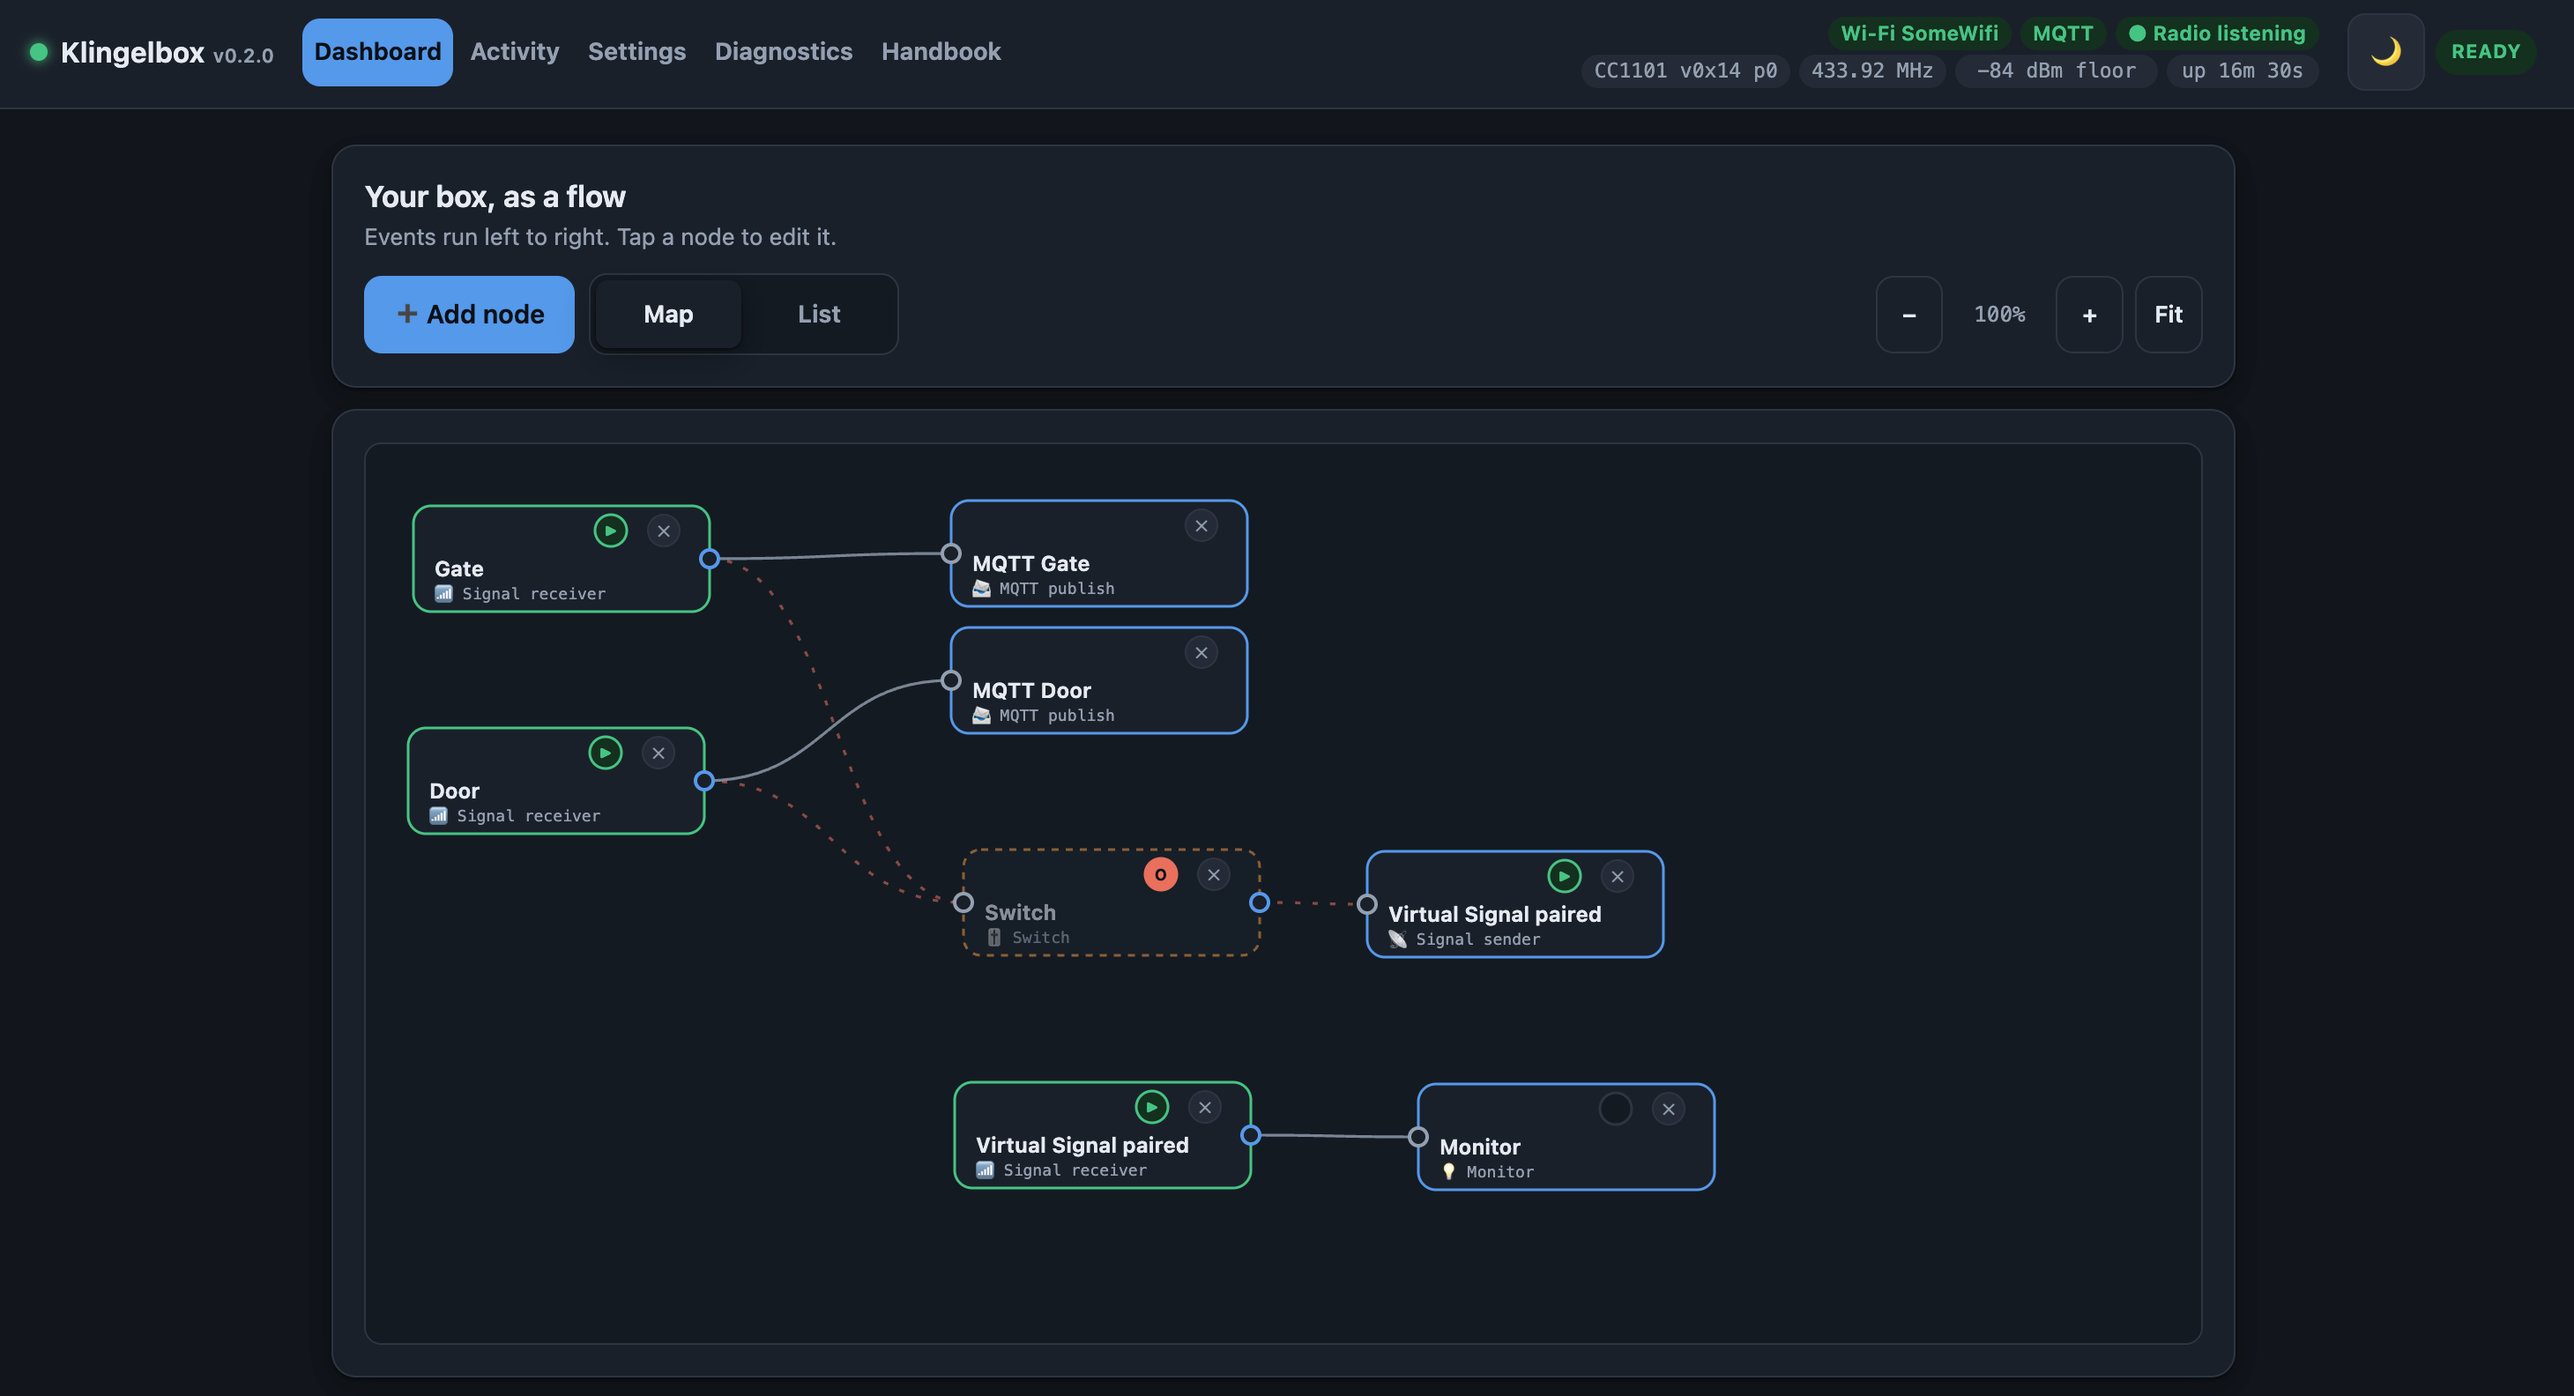
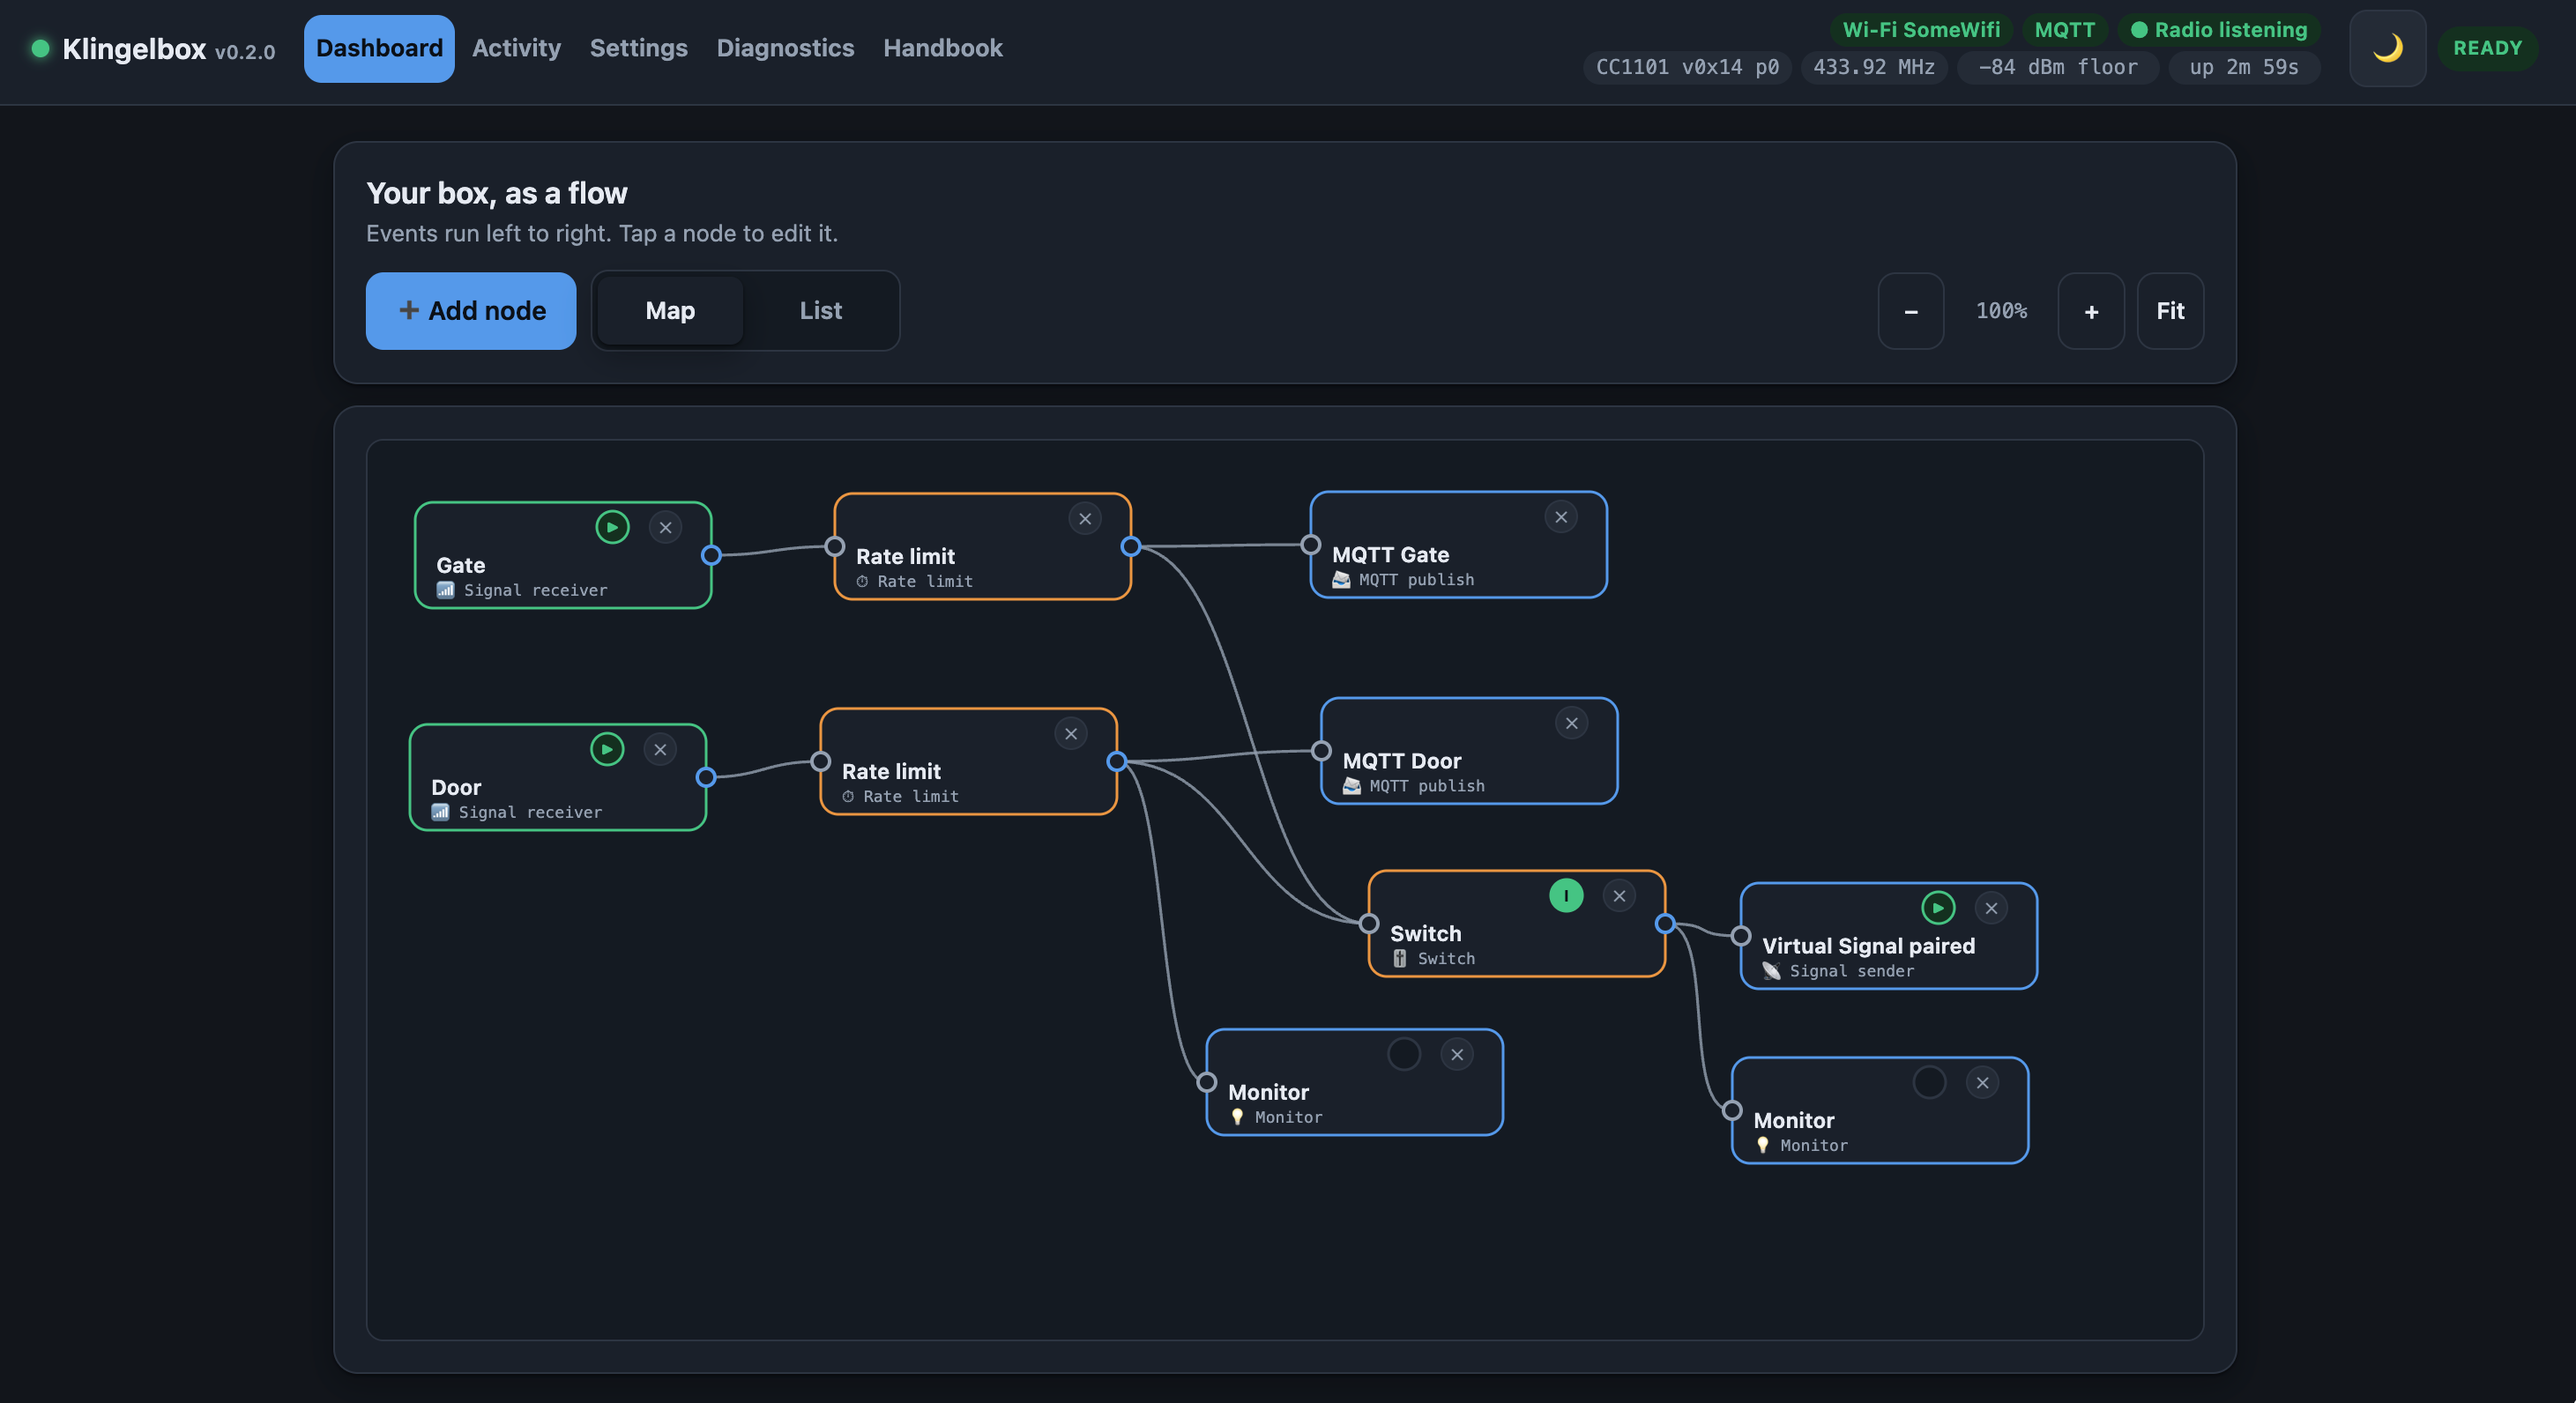
Node settings on the map, updated screenshot, 0.3.0
Rate limit, Repeat and Group now show their VALUE on the canvas, in the badge
slot the Monitor lamp and the play button occupy on other types -- those nodes
have no action to offer, so the space was free. A row of identical "Rate limit"
boxes tells you nothing about which is 10 seconds and which is 10 minutes, and
the number is the only thing distinguishing them.

    Rate limit  ->  10s
    Repeat      ->  3x5s      times x interval, in the order they happen
    Group       ->  ANY, or ALL 1s

ANY deliberately shows no window, because ANY ignores it -- the same reason the
editor hides that field in ANY mode. Long durations compact (600s -> 10m), and
the pill is right-aligned to the slot so it grows leftwards into empty space:
8 units of clearance from the delete badge's hit disc, checked rather than
eyeballed. It is a readout, not a control -- quieter styling and no hit disc, so
it never invites a click that would do nothing.

Screenshot updated to the user's newer graph, and its caption rewritten: the old
one described a switch that was OFF with its paths drawn broken, which is no
longer what the picture shows. A caption that contradicts its image is worse
than none.

diff --git a/firmware/webui/app.js b/firmware/webui/app.js
@@ -4185,6 +4185,37 @@ function renderCanvas() {
     return c;
   }
 
+  /* A widened badge carrying a short VALUE rather than a glyph.
+     Rate limit and Repeat are configured entirely by two numbers, and on the map
+     those numbers are the only thing distinguishing one from another — a row of
+     identical "Rate limit" boxes tells you nothing about which is 10 s and which
+     is 10 minutes. It shares the badge shape, sits in the same slot the lamp and
+     ▶ use, and is right-aligned to that slot's edge so it grows leftwards into
+     empty space instead of towards the ✕. It is a readout: no hit disc. */
+  function pill(g, xEnd, cy, cls, text) {
+    var w = Math.max(2 * BADGE_R, text.length * 6 + 10);
+    var x = xEnd - w;
+    var r = svgEl("rect", "nbadge npill " + cls);
+    r.setAttribute("x", x); r.setAttribute("y", cy - BADGE_R);
+    r.setAttribute("width", w); r.setAttribute("height", BADGE_R * 2);
+    r.setAttribute("rx", BADGE_R);
+    add(g, r);
+    var t = svgEl("text", "nbadge-gl npill " + cls);
+    t.setAttribute("x", x + w / 2); t.setAttribute("y", cy + 3.5);
+    t.setAttribute("text-anchor", "middle");
+    t.textContent = text;
+    add(g, t);
+    return r;
+  }
+
+  /* Seconds, compact enough for a 168-unit box: 90 -> "90s", 600 -> "10m". */
+  function shortSecs(v) {
+    var n = Math.max(0, Math.round(numOr(v, 0)));
+    if (n < 60 || n % 60) return n + "s";
+    var m = n / 60;
+    return (m < 60 || m % 60) ? m + "m" : (m / 60) + "h";
+  }
+
   function hitDisc(g, cx, cy, r, label, onFire) {
     var d = svgEl("circle", "nhit");
     d.setAttribute("cx", cx); d.setAttribute("cy", cy); d.setAttribute("r", r);
@@ -4296,6 +4327,22 @@ function renderCanvas() {
     if (mon) {
       var lamp = badge(g, BADGE_X_ACT, BADGE_Y, "nlamp", null);
       lamp.setAttribute("data-monlamp", n.id);
+    }
+
+    /* The logic types' settings, in the slot the lamp and ▶ occupy on other
+       types. These nodes have no action to offer, so the space is free — and
+       what you want from them at a glance is their VALUE, not their name. */
+    if (n.type === "logic.throttle") {
+      pill(g, BADGE_X_ACT + BADGE_R, BADGE_Y, "nval",
+           shortSecs(numOr(n.window_s, 10)));
+    } else if (n.type === "logic.repeat") {
+      /* "3x5s" — the two numbers that define it, in the order they happen. */
+      pill(g, BADGE_X_ACT + BADGE_R, BADGE_Y, "nval",
+           numOr(n.repeats, 3) + "\u00d7" + shortSecs(numOr(n.window_s, 5)));
+    } else if (n.type === "logic.group") {
+      /* ANY ignores the window entirely, so showing one would be a lie. */
+      pill(g, BADGE_X_ACT + BADGE_R, BADGE_Y, "nval",
+           n.group_mode === "all" ? ("ALL " + shortSecs(numOr(n.window_s, 1))) : "ANY");
     }
 
     if (hasIn(ty)) {

diff --git a/firmware/webui/style.css b/firmware/webui/style.css
@@ -759,6 +759,11 @@ details.panel > h3 { font-size: .92rem; margin: 1rem 0 .3rem; }
    unmistakably destructive under the pointer. Colour only: pointer-events never
    change, so nothing depends on hovering first on a touch laptop. */
 .canvas .nbadge-gl.ndel { fill: var(--muted); }
+
+/* A value readout, not a control: quieter than ▶ and with no hover state, so it
+   never invites a click that would do nothing. */
+.canvas .nbadge.npill { fill: var(--chip); stroke: var(--line); }
+.canvas .nbadge-gl.npill { fill: var(--muted); font-weight: 650; }
 .canvas g.node:hover .nbadge.ndel { fill: var(--bad-bg); stroke: var(--bad); }
 .canvas g.node:hover .nbadge-gl.ndel { fill: var(--bad); }
 

diff --git a/README.md b/README.md
@@ -11,12 +11,13 @@ own chimes to, and wire it all together in a node graph: *this button rings thos
 chimes, these three all ring the upstairs one, and Home Assistant sees every
 press.*
 
-![The Klingelbox dashboard: the node graph, with a switch blocking one path](docs/assets/dashboard.png)
+![The Klingelbox dashboard: two doorbell buttons routed through rate limits to MQTT, a switch and a second chime](docs/assets/dashboard.png)
 
-The whole box is one flow. Above: two doorbell buttons publish to MQTT; a
-**Switch** — toggleable from Home Assistant — is currently **off**, so the paths
-it gates are drawn broken and the chime behind it stays silent; a **Monitor**
-lights up whenever the signal beside it fires.
+The whole box is one flow. Above: two doorbell buttons each pass through a
+**Rate limit** — so leaning on the button still rings once — and on to MQTT, a
+**Switch** you can toggle from Home Assistant, and a second chime. **Monitor**
+nodes light up as a chain fires, so you can watch it work instead of reading a
+log.
 
 > **Status:** validated on real hardware. A live unit captures a doorbell,
 > decodes it, replays it so the original chime rings, and has been running the

diff --git a/docs/index.md b/docs/index.md
@@ -19,12 +19,13 @@ another chime, Home Assistant, or both. Nothing leaves your network.
 [Hardware](hardware.html){: .btn .mr-2 }
 [View on GitHub](https://github.com/MarvAmBass/klingelbox){: .btn }
 
-![The Klingelbox dashboard: the node graph, with a switch blocking one path](assets/dashboard.png)
+![The Klingelbox dashboard: two doorbell buttons routed through rate limits to MQTT, a switch and a second chime](assets/dashboard.png)
 
-The whole box is one flow. Above: two doorbell buttons publish to MQTT; a **Switch**
-— toggleable from Home Assistant — is currently **off**, so the paths it gates are
-drawn broken and the chime behind it stays silent; a **Monitor** lights up whenever
-the signal beside it fires.
+The whole box is one flow. Above: two doorbell buttons each pass through a
+**Rate limit** — so leaning on the button still rings once — and on to MQTT, a
+**Switch** you can toggle from Home Assistant, and a second chime. **Monitor**
+nodes light up as a chain fires, so you can watch it work instead of reading a
+log.
 
 ---
 
